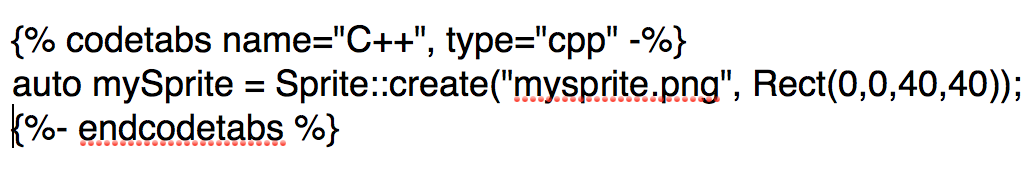
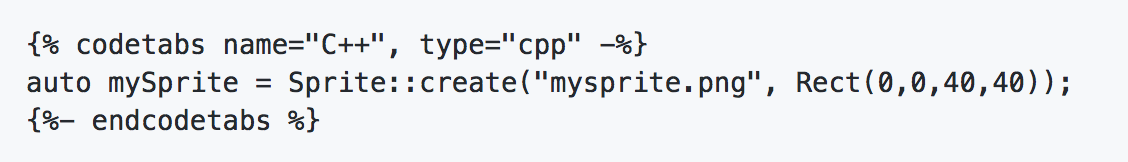
Zh refinements (#53)
* refine about

* refine basic

* refine sprite

* refine Action

* refine scene

* refine UI

* refine other_node

* refine other_node index

* refine event

* refine 3D

* refine advanced

* refine install and tools

* refine tools

* fix format

* refine summary

* remove “简介” menu

* refine pic

* refine pic

* refine codeblock

* fix

* fix

* fix

Changed region(s): [[0.0, 0.4012, 0.9884, 0.6173], [0.0, 0.1235, 0.6795, 0.3704], [0.0, 0.6481, 0.3398, 0.8642]]

diff --git a/zh/SUMMARY.md b/zh/SUMMARY.md
@@ -2,123 +2,111 @@
 
 ## 新手入门
 
-- [了解引擎](about/index.md)
-    - [关于](about/index.md)
-    - [引擎优势](about/why.md)
-    - [学习资源](about/learn.md)
-    - [获取帮助](about/help.md)
-    - [参与开发](about/how.md)
+- [了解引擎](index.md)
+  - [引擎优势](about/index.md)
+  - [学习资源](about/learn.md)
+  - [获取帮助](about/help.md)
+  - [参与开发](about/how.md)
 
 - [基本概念](basic_concepts/index.md)
-    - [简介](basic_concepts/index.md)
-    - [导演(Director)](basic_concepts/director.md)
-    - [场景(Scene)](basic_concepts/scene.md)
-    - [精灵(Sprite)](basic_concepts/sprites.md)
-    - [动作(Action)](basic_concepts/actions.md)
-    - [序列(Sequence)](basic_concepts/sequences.md)
-    - [节点关系](basic_concepts/parent_child.md)
-    - [日志输出](basic_concepts/logging.md)
+  - [导演(Director)](basic_concepts/director.md)
+  - [场景(Scene)](basic_concepts/scene.md)
+  - [精灵(Sprite)](basic_concepts/sprites.md)
+  - [动作(Action)](basic_concepts/actions.md)
+  - [序列(Sequence)](basic_concepts/sequences.md)
+  - [节点关系](basic_concepts/parent_child.md)
+  - [日志输出](basic_concepts/logging.md)
 
 ## 基本功能
 
 - [精灵(Sprite)](sprites/index.md)
-    - [简介](sprites/index.md)
-    - [精灵创建](sprites/creating.md)
-        - [使用图集](sprites/spritesheets.md)
-        - [使用精灵缓存](sprites/spriteframe_cache.md)
-    - [精灵控制](sprites/manipulation.md)
-    - [多边形精灵](sprites/polygon.md)
+  - [精灵创建](sprites/creating.md)
+    - [使用图集](sprites/spritesheets.md)
+    - [使用精灵缓存](sprites/spriteframe_cache.md)
+  - [精灵控制](sprites/manipulation.md)
+  - [多边形精灵](sprites/polygon.md)
 
 - [动作(Action)](actions/index.md)
-    - [简介](actions/index.md)
-    - [基本动作](actions/basic.md)
-    - [动作序列](actions/sequences.md)
-    - [动作的克隆和倒转](actions/sequence_internals.md)
+  - [基本动作](actions/basic.md)
+  - [动作序列](actions/sequences.md)
+  - [动作的克隆和倒转](actions/sequence_internals.md)
 
 - [场景(Scene)](scenes/index.md)
-    - [简介](scenes/index.md)
-    - [场景创建](scenes/creating.md)
-    - [场景切换](scenes/transitioning.md)
+  - [场景创建](scenes/creating.md)
+  - [场景切换](scenes/transitioning.md)
 
 - [UI 组件](ui_components/index.md)
-    - [简介](ui_components/index.md)
-    - [标签(Label)](ui_components/labels.md)
-    - [菜单(Menu)](ui_components/menus.md)
-    - [按钮(Button)](ui_components/buttons.md)
-    - [复选框(CheckBox)](ui_components/checkboxes.md)
-    - [进度条(LoadingBar)](ui_components/loading_bar.md)
-    - [滑动条(Slider)](ui_components/sliders.md)
-    - [文本框(TextField)](ui_components/textfields.md)
+  - [标签(Label)](ui_components/labels.md)
+  - [菜单(Menu)](ui_components/menus.md)
+  - [按钮(Button)](ui_components/buttons.md)
+  - [复选框(CheckBox)](ui_components/checkboxes.md)
+  - [进度条(LoadingBar)](ui_components/loading_bar.md)
+  - [滑动条(Slider)](ui_components/sliders.md)
+  - [文本框(TextField)](ui_components/textfields.md)
 
 ## 进阶内容
 
 - [特殊节点对象](other_node_types/index.md)
-    - [简介](other_node_types/index.md)
-    - [瓦片地图](other_node_types/tilemap.md)
-    - [粒子系统](other_node_types/particles.md)
-    - [视差滚动](other_node_types/parallax.md)
+  - [瓦片地图](other_node_types/tilemap.md)
+  - [粒子系统](other_node_types/particles.md)
+  - [视差滚动](other_node_types/parallax.md)
 
 - [事件分发机制](event_dispatcher/index.md)
-    - [简介](event_dispatcher/index.md)
-    - [监听器](event_dispatcher/types.md)
-    - [优先级](event_dispatcher/priority.md)
-    - [触摸事件](event_dispatcher/touch.md)
-    - [键盘事件](event_dispatcher/keyboard.md)
-    - [加速度传感器事件](event_dispatcher/accelerometer.md)
-    - [鼠标事件](event_dispatcher/mouse.md)
-    - [自定义事件](event_dispatcher/custom.md)
-    - [进阶话题](event_dispatcher/registering.md)
+  - [监听器](event_dispatcher/types.md)
+  - [优先级](event_dispatcher/priority.md)
+  - [触摸事件](event_dispatcher/touch.md)
+  - [键盘事件](event_dispatcher/keyboard.md)
+  - [加速度传感器事件](event_dispatcher/accelerometer.md)
+  - [鼠标事件](event_dispatcher/mouse.md)
+  - [自定义事件](event_dispatcher/custom.md)
+  - [进阶话题](event_dispatcher/registering.md)
 
 - [3D 支持](3d/index.md)
-    - [术语](3d/index.md)
-    - [3D 精灵](3d/sprite3d.md)
-    - [3D 动画](3d/animation.md)
-    - [相机(Camera)](3d/camera.md)
-    - [立方体纹理(TextureCube)](3d/cubemap.md)
-    - [天空盒(Skybox)](3d/skybox.md)
-    - [光照(Light)](3d/lighting.md)
-    - [地形(Terrain)](3d/terrain.md)
-    - [常用工具](3d/tools.md)
-    - [进阶话题](3d/advanced.md)
+  - [3D 精灵](3d/sprite3d.md)
+  - [3D 动画](3d/animation.md)
+  - [相机(Camera)](3d/camera.md)
+  - [立方体纹理(TextureCube)](3d/cubemap.md)
+  - [天空盒(Skybox)](3d/skybox.md)
+  - [光照(Light)](3d/lighting.md)
+  - [地形(Terrain)](3d/terrain.md)
+  - [常用工具](3d/tools.md)
+  - [进阶话题](3d/advanced.md)
 
 - [使用脚本](scripting/index.md)
-    - [脚本组件](scripting/index.md)
+  - [脚本组件](scripting/index.md)
 
 - [物理引擎](physics/index.md)
-    - [简介](physics/index.md)
-    - [概念](physics/concepts.md)
-    - [碰撞](physics/collisions.md)
-    - [查询](physics/queries.md)
-    - [调试](physics/debugging.md)
+  - [概念](physics/concepts.md)
+  - [碰撞](physics/collisions.md)
+  - [查询](physics/queries.md)
+  - [调试](physics/debugging.md)
 
 - [音乐和音效](audio/index.md)
-    - [简介](audio/index.md)
-    - [背景音乐](audio/playing.md)
-    - [声音控制](audio/operations.md)
-    - [高级功能](audio/advanced.md)
-    - [Audio Engine TODO](audio/engines.md)
+  - [背景音乐](audio/playing.md)
+  - [声音控制](audio/operations.md)
+  - [高级功能](audio/advanced.md)
+  - [Audio Engine TODO](audio/engines.md)
 
 - [高级话题](advanced_topics/index.md)
-    - [文件接入](advanced_topics/filesystem.md)
-    - [网络访问](advanced_topics/networking.md)
-    - [着色器和材质](advanced_topics/shaders.md)
-    - [图形性能优化](advanced_topics/optimizing.md)
-    - [SQLite 集成 TODO](advanced_topics/sqlite.md)
+  - [文件接入](advanced_topics/filesystem.md)
+  - [网络访问](advanced_topics/networking.md)
+  - [着色器和材质](advanced_topics/shaders.md)
+  - [图形性能优化](advanced_topics/optimizing.md)
+  - [SQLite 集成 TODO](advanced_topics/sqlite.md)
 
 ## 环境与工具
 
 - [环境搭建](installation/index.md)
-    - [安装要求](installation/index.md)
-    - [Android 平台](installation/Android-Studio.md)
-      - [Android Studio](installation/Android-Studio.md)
-      - [命令行 (已弃用)](installation/Android-terminal.md)
-      - [Eclipse (已弃用)](installation/Android-Eclipse.md)
-    - [iOS](installation/iOS.md)
-    - [macOS](installation/OSX.md)
-    - [Linux 平台](installation/Linux.md)
-    - [Windows 平台](installation/Windows.md)
+  - [Android 平台](installation/Android-Studio.md)
+    - [Android Studio](installation/Android-Studio.md)
+    - [命令行 (已弃用)](installation/Android-terminal.md)
+    - [Eclipse (已弃用)](installation/Android-Eclipse.md)
+  - [iOS](installation/iOS.md)
+  - [macOS](installation/OSX.md)
+  - [Linux 平台](installation/Linux.md)
+  - [Windows 平台](installation/Windows.md)
 
 - [引擎工具](editors_and_tools/cocosCLTool.md)
-    - [cocos 命令](editors_and_tools/cocosCLTool.md)
-    - [静态库的使用](editors_and_tools/prebuilt_libraries.md)
-    - [Creator to Cocos2d-x 插件](editors_and_tools/creator_to_cocos2dx.md)
+  - [cocos 命令](editors_and_tools/cocosCLTool.md)
+  - [静态库的使用](editors_and_tools/prebuilt_libraries.md)
+  - [Creator to Cocos2d-x 插件](editors_and_tools/creator_to_cocos2dx.md)

diff --git a/zh/about/how.md b/zh/about/how.md
@@ -6,14 +6,16 @@
 
 - Fork 文档仓库 [cocos2d-x-docs](https://github.com/cocos2d/cocos2d-x-docs)
 - __en/__ 目录对应英文文档, __zh/__ 目录对应中文文档。
-- 代码块要以一种特殊的方式包裹:
-  - 例如 C++ 代码块:
+- 代码块要以一种特殊的方式包裹，例如 C++ 代码块:
+  - 包裹方法：
+
+      ![](res/codeblock.png "")
+
+  - 最终效果：
 
       {% codetabs name="C++", type="cpp" -%}
       auto mySprite = Sprite::create("mysprite.png", Rect(0,0,40,40));
       {%- endcodetabs %}
-
-      ![](res/codeblock.png "")
 
 - 使用 `gitbook serve` 命令测试改动在 GitBook 中的效果
 - 提交 pull request 到 cocos2d/cocos2d-x-docs 仓库
